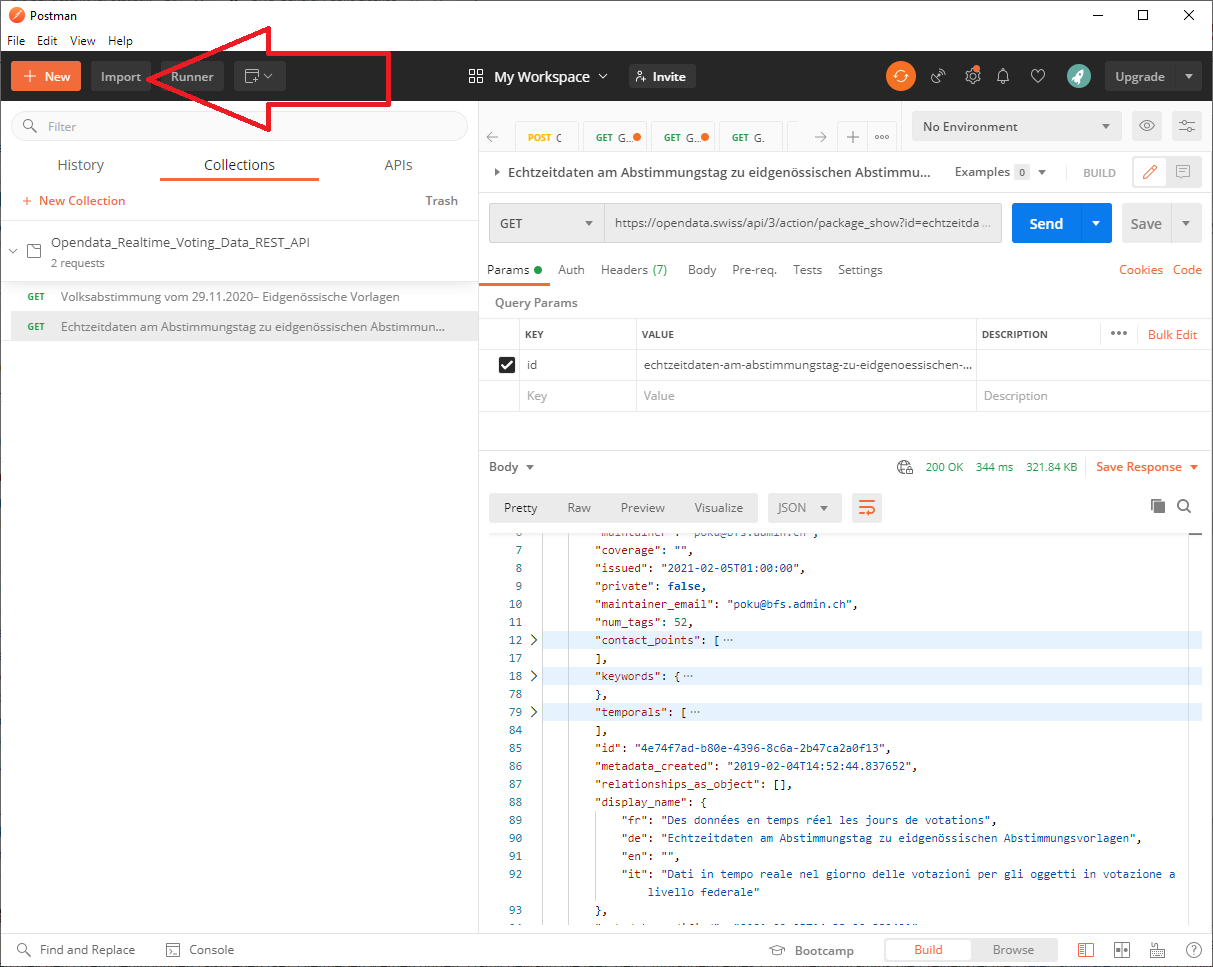
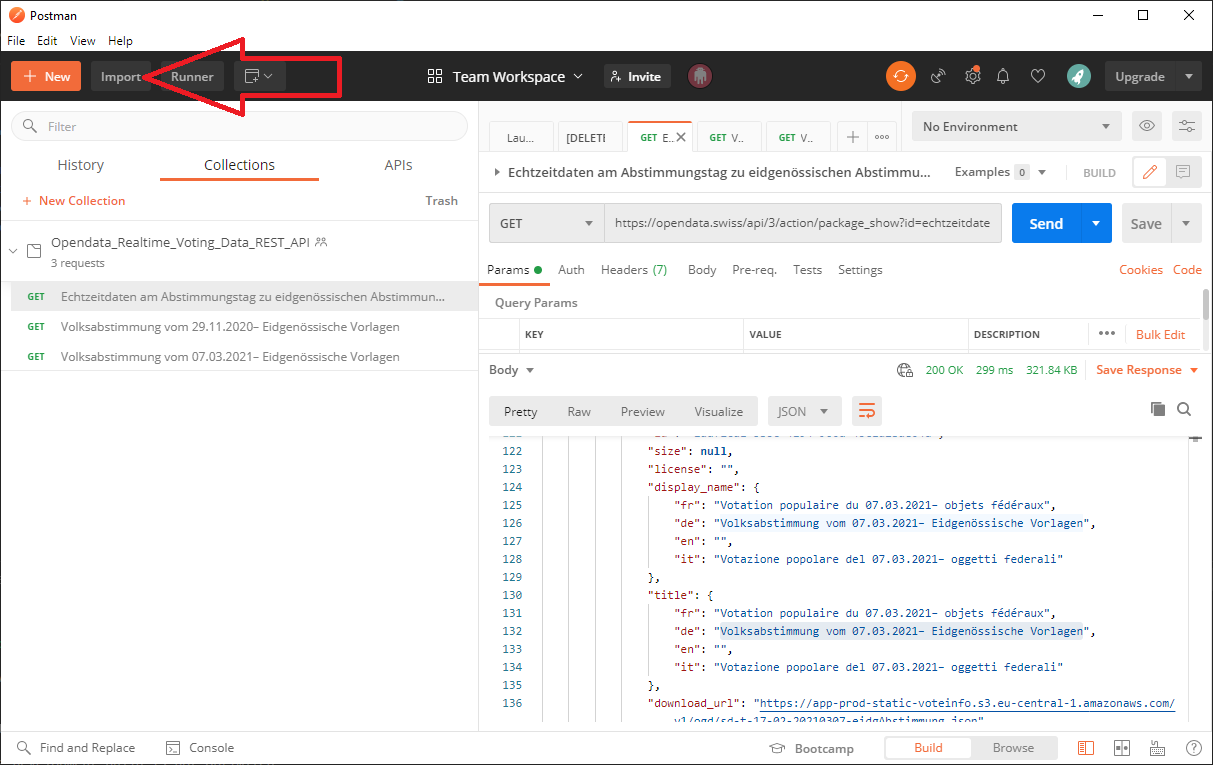
updated readme

diff --git a/README.md b/README.md
@@ -4,6 +4,8 @@ On [opendata.swiss](https://opendata.swiss/de/dataset/echtzeitdaten-am-abstimmun
 
 This repository provides a Postman collection with some data requests which should help exploring and understanding the API.
 
+## Installing Postman
+
 1. Postman is available for Windows, macOS and Linux. Go to [postman.com/downloads](https://www.postman.com/downloads/) and download and install.
 
 2. Open Postman and click import as shown red in the screenshot below. Import `Opendata_Realtime_Voting_Data_REST_API.postman_collection.json` from [this repository](Opendata_Realtime_Voting_Data_REST_API.postman_collectionjson).
@@ -11,3 +13,29 @@ This repository provides a Postman collection with some data requests which shou
 ![Import collection](screenshots/postman_import_collection.png)
 
 > There is also a [Postam team project](https://apfelschuss.postman.co/). Drop an email to apfelschuss.io@gmail.com if you want join.
+
+## Working with the API
+
+The entry point for all results (all past and the upcomming vote) can be accessed via following URL:
+
+```
+https://opendata.swiss/api/3/action/package_show?id=echtzeitdaten-am-abstimmungstag-zu-eidgenoessischen-abstimmungsvorlagen
+```
+
+The URL above refers for every federal voting day to a voting specific url. Note that past (completed) votes data is hosted on bfs.admin.ch wheras upcomming votes are hosted on Amazon Web Services. See following example that represent the state of February 2021.
+
+### Example past voting
+
+**result > resources > display_name > de:** Volksabstimmung vom 29.11.2020– Eidgenössische Vorlagen  
+**result > resources > id:** b7ff742d-5a9a-4e79-941e-906a74d59d23  
+```
+https://www.bfs.admin.ch/bfsstatic/dam/assets/14843937/master
+```
+
+### Example upcomming voting
+
+**result > resources > display_name > de:** Volksabstimmung vom 07.03.2021– Eidgenössische Vorlagen  
+**result > resources > id:** 1aaf2ca1-5b8c-4194-906a-45c1d2bde04a  
+```
+https://app-prod-static-voteinfo.s3.eu-central-1.amazonaws.com/v1/ogd/sd-t-17-02-20210307-eidgAbstimmung.json
+```
